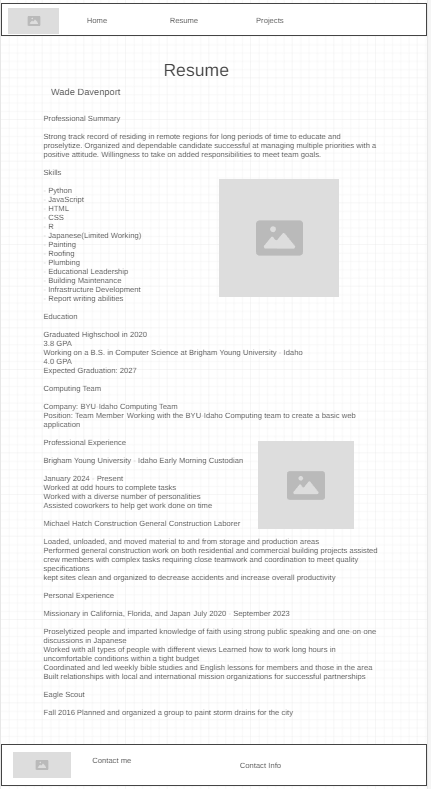
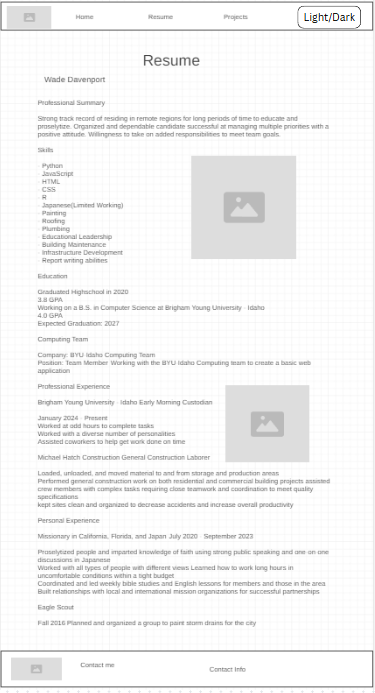
Made changes to the site plan

diff --git a/site-plan.html b/site-plan.html
@@ -12,11 +12,8 @@
     <header>
       <h1>Portfolio</h1>
       <h2>Wade Davenport</h2>
-      <!-- In the header above, add the name or your site, your name and class number. For example if you are in section 3 you would put WDD 130.03 -->
     </header>
     <main>
-
-      <!-- ------------------------Steps 2-3------------------------------ -->
       <hr>
       <h2>Overview</h2>
       <h3>Purpose</h3>
@@ -25,49 +22,47 @@
         who I am and include links to my resume and a detailed portfolio 
         of my work. This site will be a visually appealing and user-friendly 
         platform. My goal is to present my work in a clear, engaging, 
-        and professional manner.</p>  <!-- change this -->
+        and professional manner.</p>
 
 
       <h3>Audience</h3>
       <p>This site will be designed to make it easy for potential employers and 
         others to access my skills and accomplishments without feeling 
-        overwhelmed.</p>  <!-- change this -->
+        overwhelmed.</p> 
+
+      <h3>JavaScript</h3>
+      <p>JavaScript will be used to add interactivity to my portfolio website. I 
+        will implement a theme toggle switch for dark/light mode and a filtering system 
+        for project categories. These 
+        features will enhance the user experience and engagement.</p>
 
       <hr>
       <h2>Branding</h2>
       <h3>Website Logo</h3>
-      <!-- Replace this with some sort of logo for your site.  A logo can be as simple as the name of your site in a nice font :) -->
-      <img src="../images/logo.png" alt="Logo image">
+      <img src="/images/logo.png" alt="Logo image">
       <hr>
       <h2>
         Style Guide
       </h2>
 
-      <!-- ------------------------Steps 4-8------------------------------ -->
-
       <h3>
         Color Palette
       </h3>
-      <!--  The colors you choose for a website are one of the most important decisions you will make. Follow the instructions on the activity in iLearn. You should have at least 2 colors but do not have to fill in all 4 if you do not need them.  -->
 
       <table class="colors">
         <tr><th>Primary</th><th>Secondary</th><th>Accent 1</th><th>Accent 2</th></tr>
-        <!-- Switch to the site-plan.css file and change your colors there. -->
         <tr><td class="primary"></td><td class="secondary"></td><td class="accent1"></td><td class="accent2"></td></tr>
       </table>
-
-      <!-- ------------------------Step 9------------------------------ -->
 
       <h3>
         Typography
       </h3>
-      <!-- Choose a font for your paragraphs (body copy) and headlines. What font(s) have you chosen? Why did you choose what you did?  Make sure to review the list of web safe fonts at W3Schools.org as a starting point.  Think also about which of your colors above you might use for background and font colors. -->
 
       <h4>
-        Heading Font: Roboto Slab  <!-- change this -->
+        Heading Font: Roboto Slab
       </h4>
       <h4>
-        Paragraph Font: Montserrat  <!-- change this -->
+        Paragraph Font: Montserrat
       </h4>
       <h3>
         Normal paragraph example
@@ -82,16 +77,13 @@
         Lorem ipsum dolor sit amet, consectetur adipiscing elit, sed do eiusmod tempor incididunt ut labore et dolore magna aliqua. Ut enim ad minim veniam, quis nostrud exercitation ullamco laboris nisi ut aliquip ex ea commodo consequat. 
       </p>
 
-      <!-- ------------------------Step 10------------------------------ -->
-
       <h3>
         Navigation
       </h3>
-      <!-- Think about how you want your navigation bar to look. In the site-plan.css file change the colors to your colors to get the look you desire. --> 
       <nav>
         <a href="#">Home</a>
-        <a href="#">Page2</a>
-        <a href="#">Page3</a>
+        <a href="#">Resume</a>
+        <a href="#">Projects</a>
       </nav>
       <hr>
       <h2>
@@ -102,10 +94,10 @@
           Home
         </div>
         <div class="sm-page2">
-          [Page2] <!-- change this -->
+          Resume 
         </div>
         <div class="sm-page3">
-          [Page3]  <!-- change this -->
+          Projects
         </div>
 
         <div class="top">
@@ -120,7 +112,6 @@
 
       </div>
 
-      <!-- --------Content Section -------------- -->
       <hr>
       <h2>
         Content
@@ -231,42 +222,57 @@
       <ul>
         <li>Title</li>
         <li>Description (possibility of image)</li>
-        <li>Link</li>
       </ul>
       <p>
         I am currently working on two different projects at the moment: 
         One is a game where you change the player to the same color as the incoming obstacles which gets increasingly more fast paced the longer you play
         A Zork-esc game where it is mostly text-based and played in a terminal
-
-        I am hoping to complete these games before the end of summer 2024 and finish the prototypes before the end of spring.
+      </p>
+      <h4>Mindfulness Program</h4>
+      <p>
+        A terminal based program that has 3 different mindfulness exercises. A breathing exercise, a listening exercise, and a reflection exercise. For each you can do each for a time of your choosing before being escorted back to the main menu.
+      </p>
+      <h4>Journal Program</h4>
+      <p>
+        A terminal based Journal where you can write journal entries and are given a random prompt. You can display your current entries and then save them in a file. You can also load the file again later if you want to continue writing more journal entries.
+      </p>
+      <h4>Goal Setting Program</h4>
+      <p>
+        A terminal based program where you can create 3 different types of goals: a simple goal, a checklist goal, and an ongoing goal. You can then check of these goals for points and then display your total score.
+      </p>
+      <h4>Scripture Memorization Program</h4>
+      <p>
+        This is a terminal program with a set scripture. As you press the enter key you will slowly replace the words in the scripture with blank lines helping you memorize the scripture. The program ends when all the words have disappeared or you quit the program.
       </p>
       <p>Images for the Page 3</p>
         <img src="./images/color-change-game.png" alt="Screenshot of game I am making">
         <img src="./images/html-symbol.png" alt="HTML symbol">
+        <img src="./images/goal-program.png" alt="Goal Program">
+        <img src="./images/journal-program.png" alt="Journal Program">
+        <img src="./images/mindfulness-program.png" alt="Mindfulness Program">
+        <img src="./images/scripture-memorization-program.png" alt="Scripture Memorization Program">
 
       </ul>
       <hr>
       <h2>
         Wireframes
       </h2>
-      <p>
-        Create three wireframes for your site. One for each page and list them here</p>
 
       <h3>Home</h3>
       <p>         
-        [Any additional details about home that the wireframe does not make clear]
+        The homepage will have an introduction section, a project preview, and a contact section.
       </p>
       <img src="./images/home-page.png" alt="home page wireframe">
 
-      <h3>[Page 2]</h3>
+      <h3>Resume</h3>
       <p>         
-        [Any additional details about page 2 that the wireframe does not make clear]
+        The resume page will be structured with clearly defined sections for education, work experience, and skills
       </p>
       <img src="./images/resume-page.png" alt="page 2 wireframe">
 
-      <h3>[Page 3]</h3>
+      <h3>Projects</h3>
       <p>         
-        [Any additional details about page 3 that the wireframe does not make clear]
+        The project page will have interactive filtering for different project types.
       </p>
       <img src="./images/projects-page.png" alt="page 3 wireframe">
     </main>

diff --git a/styles/site-plan.css b/styles/site-plan.css
@@ -1,33 +1,24 @@
-/* if you are using any Google fonts change the font names below to your fonts. 
-Any spaces in your font name should be replaced with a +. 
-Fonts are separated by a | */
 @import url('https://fonts.googleapis.com/css?family=Montserrat|Roboto+Slab');
 
 :root {
-  /* change the values below to your colors from your palette */
   --primary-color: #2e1a08   ;
   --secondary-color: #14d300 ;
   --accent1-color: #8a4111;
   --accent2-color: white;
 
-  /* change the values below to your chosen font(s) */
   --heading-font: "Roboto Slab";
   --paragraph-font: Montserrat, Helvetica, sans-serif;
 
-  /* these colors below should be chosen from among your palette colors above */
-  --headline-color-on-white: #2e1a08;  /* headlines on a white background */ 
-  --headline-color-on-color: white; /* headlines on a colored background */ 
-  --paragraph-color-on-white: #2e1a08; /* paragraph text on a white background */ 
-  --paragraph-color-on-color: white; /* paragraph text on a colored background */ 
+  --headline-color-on-white: #2e1a08;
+  --headline-color-on-color: white;
+  --paragraph-color-on-white: #2e1a08;
+  --paragraph-color-on-color: white;
   --paragraph-background-color: #2e1a08  ;
   --nav-link-color: #2e1a08;
   --nav-background-color: #14d300;
   --nav-hover-link-color: white;
   --nav-hover-background-color: #2e1a08;
 }
-
-
-/*  Look around below...but DON'T CHANGE ANYTHING! */
 
 body {
   max-width: 1200px;
